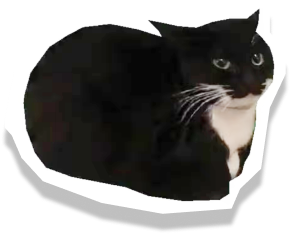
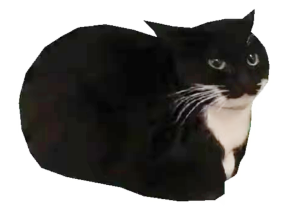
[yuyan] modify cat animation

diff --git a/js/cat.js b/js/cat.js
@@ -1,8 +1,8 @@
 class Cat {
     constructor(scaleRate) {
         this.scaleRate = scaleRate;
-        this.catWidth = catImg.width * scaleRate;
-        this.catHeight = catImg.height * scaleRate;
+        this.catWidth = cat1Img.width * scaleRate;
+        this.catHeight = cat1Img.height * scaleRate;
         this.catLeft = 200;
         this.catTop = tileHeight / 2 - this.catHeight / 2;
         this.collisionDisFood = this.catHeight / 2 ;//this.catHeight * 0.2
@@ -53,9 +53,20 @@ class Cat {
         if(isPaused){
             this.showBoxTime(this.stuckBox,this.boxLeftTime);
         } else {
-            image(catImg, this.catLeft, this.catTop, this.catWidth, this.catHeight, 0, 0, catImg.width, catImg.width);
+            this.drawCat()
+            
         }
 
+    }
+
+    drawCat() {
+        let isFirstCatImg = true
+        if (isFirstCatImg) {
+          image(cat1Img, this.catLeft, this.catTop, this.catWidth, this.catHeight, 0, 0, catImg.width, catImg.width);
+        } else {
+          image(cat2Img, this.catLeft, this.catTop, this.catWidth, this.catHeight, 0, 0, catImg.width, catImg.width);
+        }
+        isFirstCatImg = !isFirstCatImg
     }
 
     checkEatFood(itemPosition){
@@ -135,8 +146,8 @@ class Cat {
     }
 
     reset() {
-        this.catWidth = catImg.width * this.scaleRate;
-        this.catHeight = catImg.height * this.scaleRate;
+        this.catWidth = cat1Img.width * this.scaleRate;
+        this.catHeight = cat1Img.height * this.scaleRate;
         this.catLeft = 200;
         this.catTop = tileHeight / 2 - this.catHeight / 2;
     }

diff --git a/js/main.js b/js/main.js
@@ -18,7 +18,7 @@ let karla, karlaBold, arial;
 
 let isSoundOn = false;
 let rug, tape1, tape2;
-let catImg, canImg, cucumberImg, boxImg, tvImg, winImg, catInBoxImg;
+let cat1Img, cat2Img, canImg, cucumberImg, boxImg, tvImg, winImg, catInBoxImg;
 let startGameImg, titleImg, titleBGImg;
 let cameraX = 0;
 let cat_x = 0, cat_y = 0;
@@ -43,8 +43,8 @@ let accSpeed = INIT_ACC_SPEED;
 
 function preload() {
 
-  bgmSound = loadSound('data/bgm.mp3');
-  catEatSound1 = loadSound('data/catEatSFX1.mp3')
+  bgmSound = loadSound('./data/bgm.mp3');
+  catEatSound1 = loadSound('/data/catEatSFX1.mp3')
   catEatSound2 = loadSound('data/catEatSFX2.mp3')
   boxSound = loadSound('data/catBoxSFX.mp3');
 
@@ -52,7 +52,8 @@ function preload() {
   karlaBold = loadFont('data/Karla-Bold.ttf');
   arial = loadFont('data/arial.ttf');
 
-  catImg = loadImage('data/cat1f.png');
+  cat1Img = loadImage('data/cat1f.png');
+  cat2Img = loadImage('data/cat2f.png');
 
   rug = loadImage('data/rug.png')
   tape1 = loadImage('data/tape1.png')
